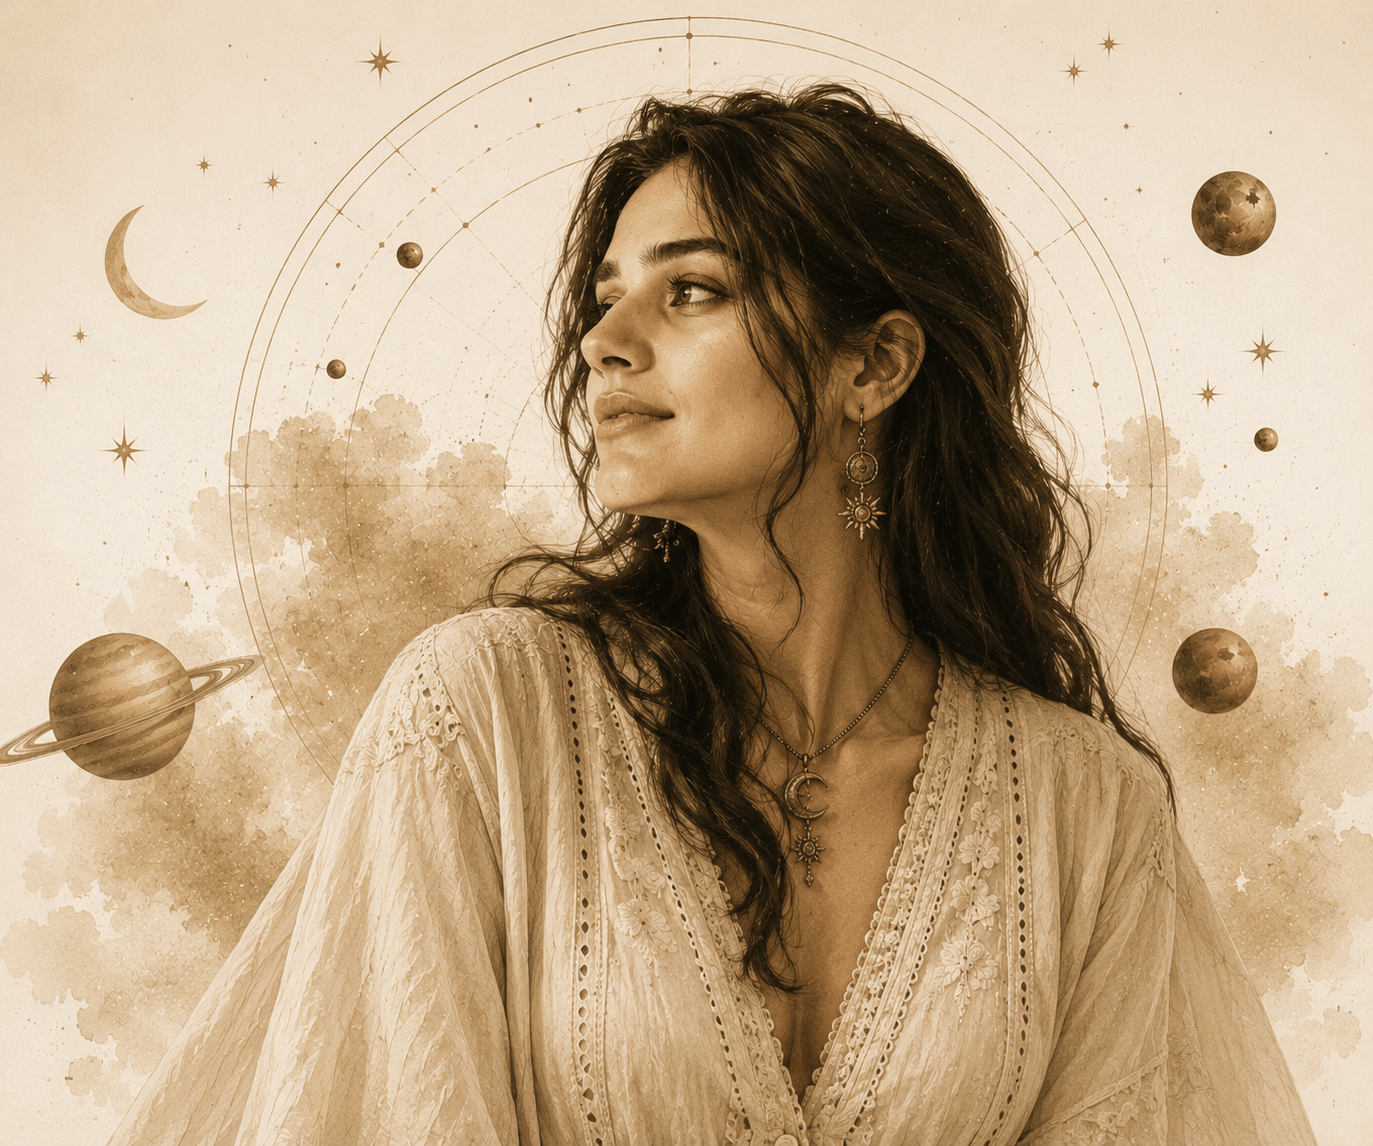
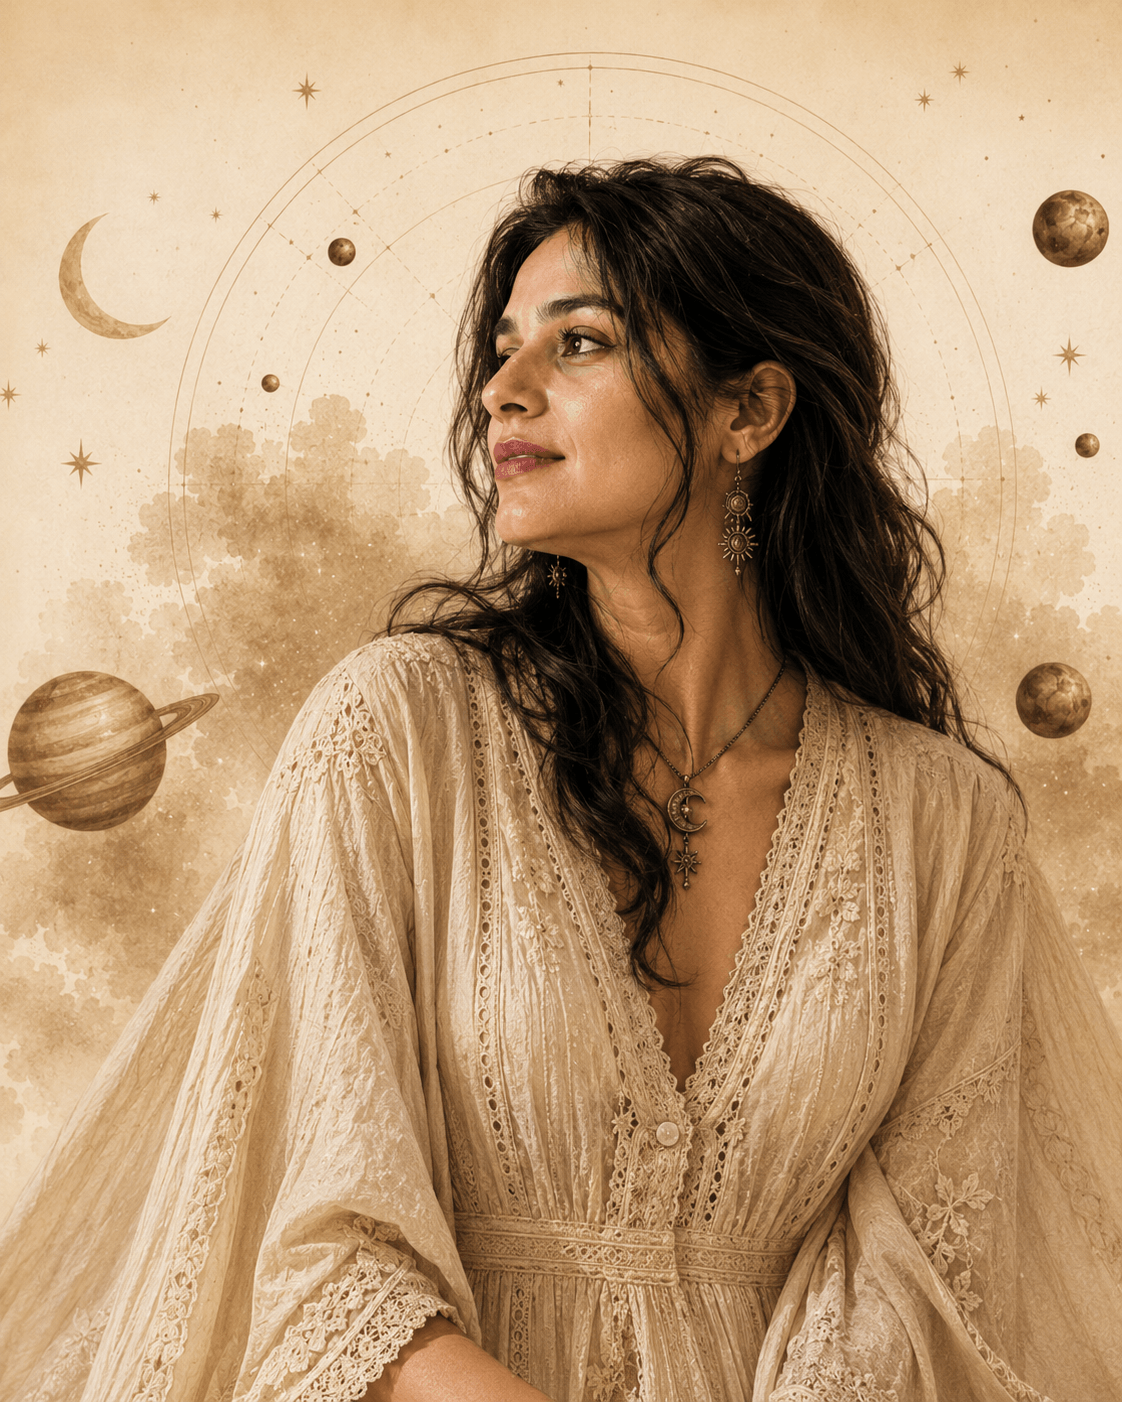
update hero image and footer, add join page

diff --git a/src/components/Footer.tsx b/src/components/Footer.tsx
@@ -40,10 +40,10 @@ export default function Footer() {
           <div>
             <h3 className="font-serif text-base font-bold uppercase tracking-widest mb-5" style={{ color: "#C9A968" }}>Explore</h3>
             <ul className="space-y-3 text-sm">
-              <li><button onClick={() => handleNavClick("problems")} className="text-left font-light transition-colors" style={{ color: "rgba(255,255,255,0.9)" }} onMouseEnter={e => (e.currentTarget.style.color="#C9A968")} onMouseLeave={e => (e.currentTarget.style.color="rgba(255,255,255,0.9)")}>Challenges Addressed</button></li>
-              <li><button onClick={() => handleNavClick("why-vastu")} className="text-left font-light transition-colors" style={{ color: "rgba(255,255,255,0.9)" }} onMouseEnter={e => (e.currentTarget.style.color="#C9A968")} onMouseLeave={e => (e.currentTarget.style.color="rgba(255,255,255,0.9)")}>Scientific Approach</button></li>
-              <li><button onClick={() => handleNavClick("expert")} className="text-left font-light transition-colors" style={{ color: "rgba(255,255,255,0.9)" }} onMouseEnter={e => (e.currentTarget.style.color="#C9A968")} onMouseLeave={e => (e.currentTarget.style.color="rgba(255,255,255,0.9)")}>Meet The Expert</button></li>
-              <li><button onClick={() => handleNavClick("faq")} className="text-left font-light transition-colors" style={{ color: "rgba(255,255,255,0.9)" }} onMouseEnter={e => (e.currentTarget.style.color="#C9A968")} onMouseLeave={e => (e.currentTarget.style.color="rgba(255,255,255,0.9)")}>Frequently Asked Questions</button></li>
+              <li><button onClick={() => handleNavClick("why-vastu")} className="text-left font-light cursor-pointer transition-colors" style={{ color: "rgba(255,255,255,0.9)" }} onMouseEnter={e => (e.currentTarget.style.color="#C9A968")} onMouseLeave={e => (e.currentTarget.style.color="rgba(255,255,255,0.9)")}>Process</button></li>
+              <li><button onClick={() => handleNavClick("why-vastu")} className="text-left font-light cursor-pointer transition-colors" style={{ color: "rgba(255,255,255,0.9)" }} onMouseEnter={e => (e.currentTarget.style.color="#C9A968")} onMouseLeave={e => (e.currentTarget.style.color="rgba(255,255,255,0.9)")}>Scientific Approach</button></li>
+              <li><button onClick={() => handleNavClick("expert")} className="text-left font-light cursor-pointer transition-colors" style={{ color: "rgba(255,255,255,0.9)" }} onMouseEnter={e => (e.currentTarget.style.color="#C9A968")} onMouseLeave={e => (e.currentTarget.style.color="rgba(255,255,255,0.9)")}>Meet The Expert</button></li>
+              <li><button onClick={() => handleNavClick("faq")} className="text-left font-light cursor-pointer transition-colors" style={{ color: "rgba(255,255,255,0.9)" }} onMouseEnter={e => (e.currentTarget.style.color="#C9A968")} onMouseLeave={e => (e.currentTarget.style.color="rgba(255,255,255,0.9)")}>Frequently Asked Questions</button></li>
             </ul>
           </div>
 

diff --git a/src/pages/Join.tsx b/src/pages/Join.tsx
@@ -354,7 +354,7 @@ export default function Join() {
               <div className="pt-2 space-y-3">
                 <button type="submit" disabled={loading}
                   className="w-full py-4 bg-gold-500 hover:bg-gold-600 text-white rounded-full font-bold tracking-widest text-sm uppercase shadow-[0_10px_25px_rgba(197,145,84,0.3)] hover:shadow-[0_12px_30px_rgba(197,145,84,0.45)] transition-all duration-300 disabled:opacity-50 flex items-center justify-center gap-2 border border-gold-400 cursor-pointer hover:scale-[1.01]">
-                  {loading ? statusMessage : "Join Now"}
+                  {loading ? statusMessage : "Submit"}
                 </button>
                 
               </div>